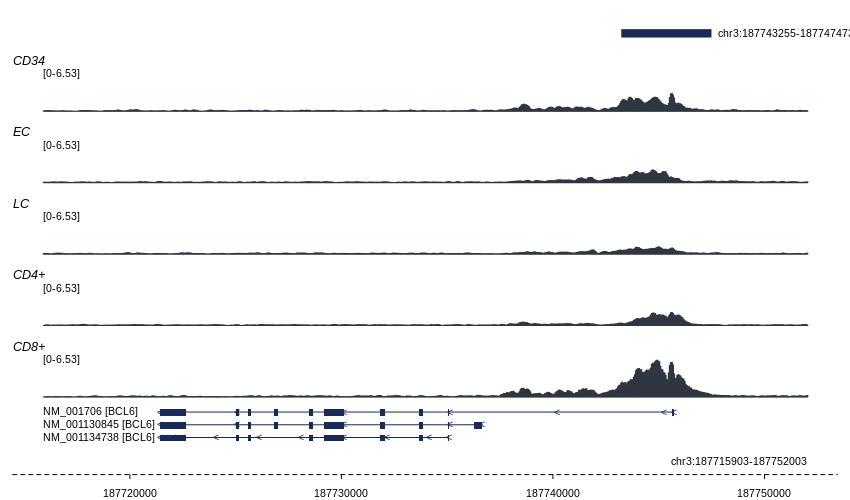
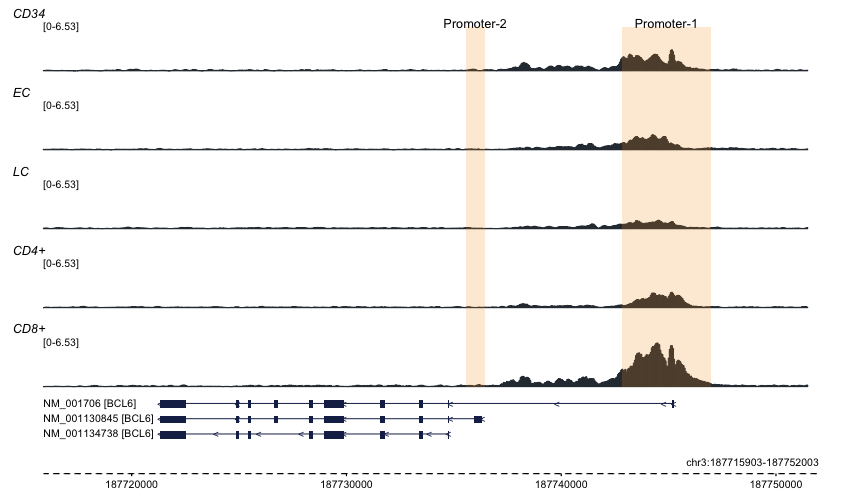
update tracks

diff --git a/README.md b/README.md
@@ -8,13 +8,31 @@
 download.file(url = "https://raw.githubusercontent.com/PoisonAlien/trackplot/master/trackplot.R", destfile = "trackplot.R")
 source('trackplot.R') 
 
-#Example usage:
+#1. Basic usage
+trackplot(bigWigs = bigWigs, loci = "chr3:187,715,903-187,752,003")
+
+#2. With gene models (by default autoamtically queries UCSC genome browser for hg19 transcripts)
+trackplot(bigWigs = bigWigs, loci = "chr3:187,715,903-187,752,003", draw_gene_track = TRUE, build = "hg38")
+
+#3. With GTF file as source for gene models
+trackplot(bigWigs = bigWigs, loci = "chr3:187,715,903-187,752,003", draw_gene_track = TRUE, gene_model = "hg38_refseq.gtf.gz", isGTF = TRUE)
+
+#4. Heighlight regions of interest
+
+## Example regions to heighlight (optional)
+markregions = data.frame(
+    chr = c("chr3", "chr3"),
+    start = c(187743255, 187735888),
+    end = c(187747473, 187736777),
+    name = c("Promoter-1", "Promoter-2")
+  )
+  
 trackplot(
   bigWigs = c("CD34.bw", "EC.bw", "LC.bw", "CD4p.bw", "CD8p.bw"),
   loci = "chr3:187,715,903-187,752,003",
   draw_gene_track = TRUE,
   build = "hg38",
-  mark_regions = data.frame(chr = "chr3", start = 187743255, end = 187747473),
+  mark_regions = markregions,
   custom_names = c("CD34", "EC", "LC", "CD4+", "CD8+")
 )
 ```
@@ -24,7 +42,7 @@ trackplot(
 
 ### Features
 
- * Fast - Above example plot took less than a minute on my 5 year old [macbook Pro](https://support.apple.com/kb/sp715?locale=en_GB). 
+ * Fast - Above example plot took less than a minute on my 5 year old [macbook Pro](https://support.apple.com/kb/sp715?locale=en_GB) 
  * Automatically queries UCSC genome browser for gene models.
  * Supports GTF and standard UCSC gene formats as well.
  * Customization: Each track can be customized for color, scale, and width.
@@ -42,29 +60,33 @@ trackplot(
 Available arguments
 
 ```r
+#' Generate IGV style locus tracks with ease
 #' @param bigWigs bigWig files. Default NULL. Required.
 #' @param loci target region to plot. Should be of format "chr:start-end". e.g; chr3:187715903-187752003
 #' @param chr chromosome of interest. Default NULL. This argument is mutually exclusive with `loci`
 #' @param start start position. Default NULL. This argument is mutually exclusive with `loci`
 #' @param end end interest. Default NULL. This argument is mutually exclusive with `loci`
 #' @param nthreads Default 1.
-#' @param binsize bin size to extract signal. Default 50 (bpbs).
+#' @param binsize bin size to extract signal. Default 50 (bps).
 #' @param draw_gene_track Default FALSE. If TRUE plots gene models overlapping with the queried region
-#' @param gene_model File with gene models. Can be a gtf file or UCSC file format. Default NULL, automatically fetches gene models from UCSC server
+#' @param gene_model File with gene models. Can be a gtf file or UCSC file format. If you have read them into R as a data.frame, that works as well. Default NULL, automatically fetches gene models from UCSC server
 #' @param isGTF Default FALSE. Set to TRUE if the `gene_model` is a gtf file.
 #' @param tx transcript name to draw. Default NULL. Plots all transcripts overlapping with the queried region
 #' @param gene gene name to draw. Default NULL. Plots all genes overlapping with the queried region
-#' @param gene_fsize Font size. Default 0.8
-#' @param gene_track_width Default 1 
-#' @param scale_track_width Default 1 
-#' @param query_ucsc Default FALSE. But switches to TREI when `gene_model` is FALSE
-#' @param build Genome build. Default hg19
+#' @param collapse_tx Default FALSE. Whether to collapse all transcripts belonging to same gene into a unified gene model
+#' @param gene_fsize Font size. Default 1
+#' @param gene_track_height Default 2 
+#' @param scale_track_height Default 1
+#' @param query_ucsc Default FALSE. But switches to TRUE when `gene_model` is not given.
+#' @param build Genome build. Default `hg19`
 #' @param col Color for tracks. Default `#2f3640`. Multiple colors can be provided for each track
 #' @param groupAutoScale Default TRUE
 #' @param show_axis Default FALSE
 #' @param custom_names Default NULL and Parses from the file names.
-#' @param mark_regions genomic regions to highlight. A data.frame with three columns containing chr, start and end positions.
-#' @param regions_track_width Default 1
+#' @param custom_names_pos Default 0 (corresponds to left corner)
+#' @param mark_regions genomic regions to highlight. A data.frame with at-least three columns containing chr, start and end positions.
+#' @param mark_regions_col color for highlighted region. Default "#192A561A"
+#' @param mark_regions_col_alpha Default 0.5
 ```
 
 ### Caveat
@@ -72,3 +94,7 @@ Available arguments
  * Windows OS is not supported
  
 ![](https://media.giphy.com/media/cKJjGbH7R5KKcJIR5u/giphy.gif)
+
+### Acknowledgements 
+
+[Joschka Hey](https://github.com/HeyLifeHD) for all the cool suggestions :)
